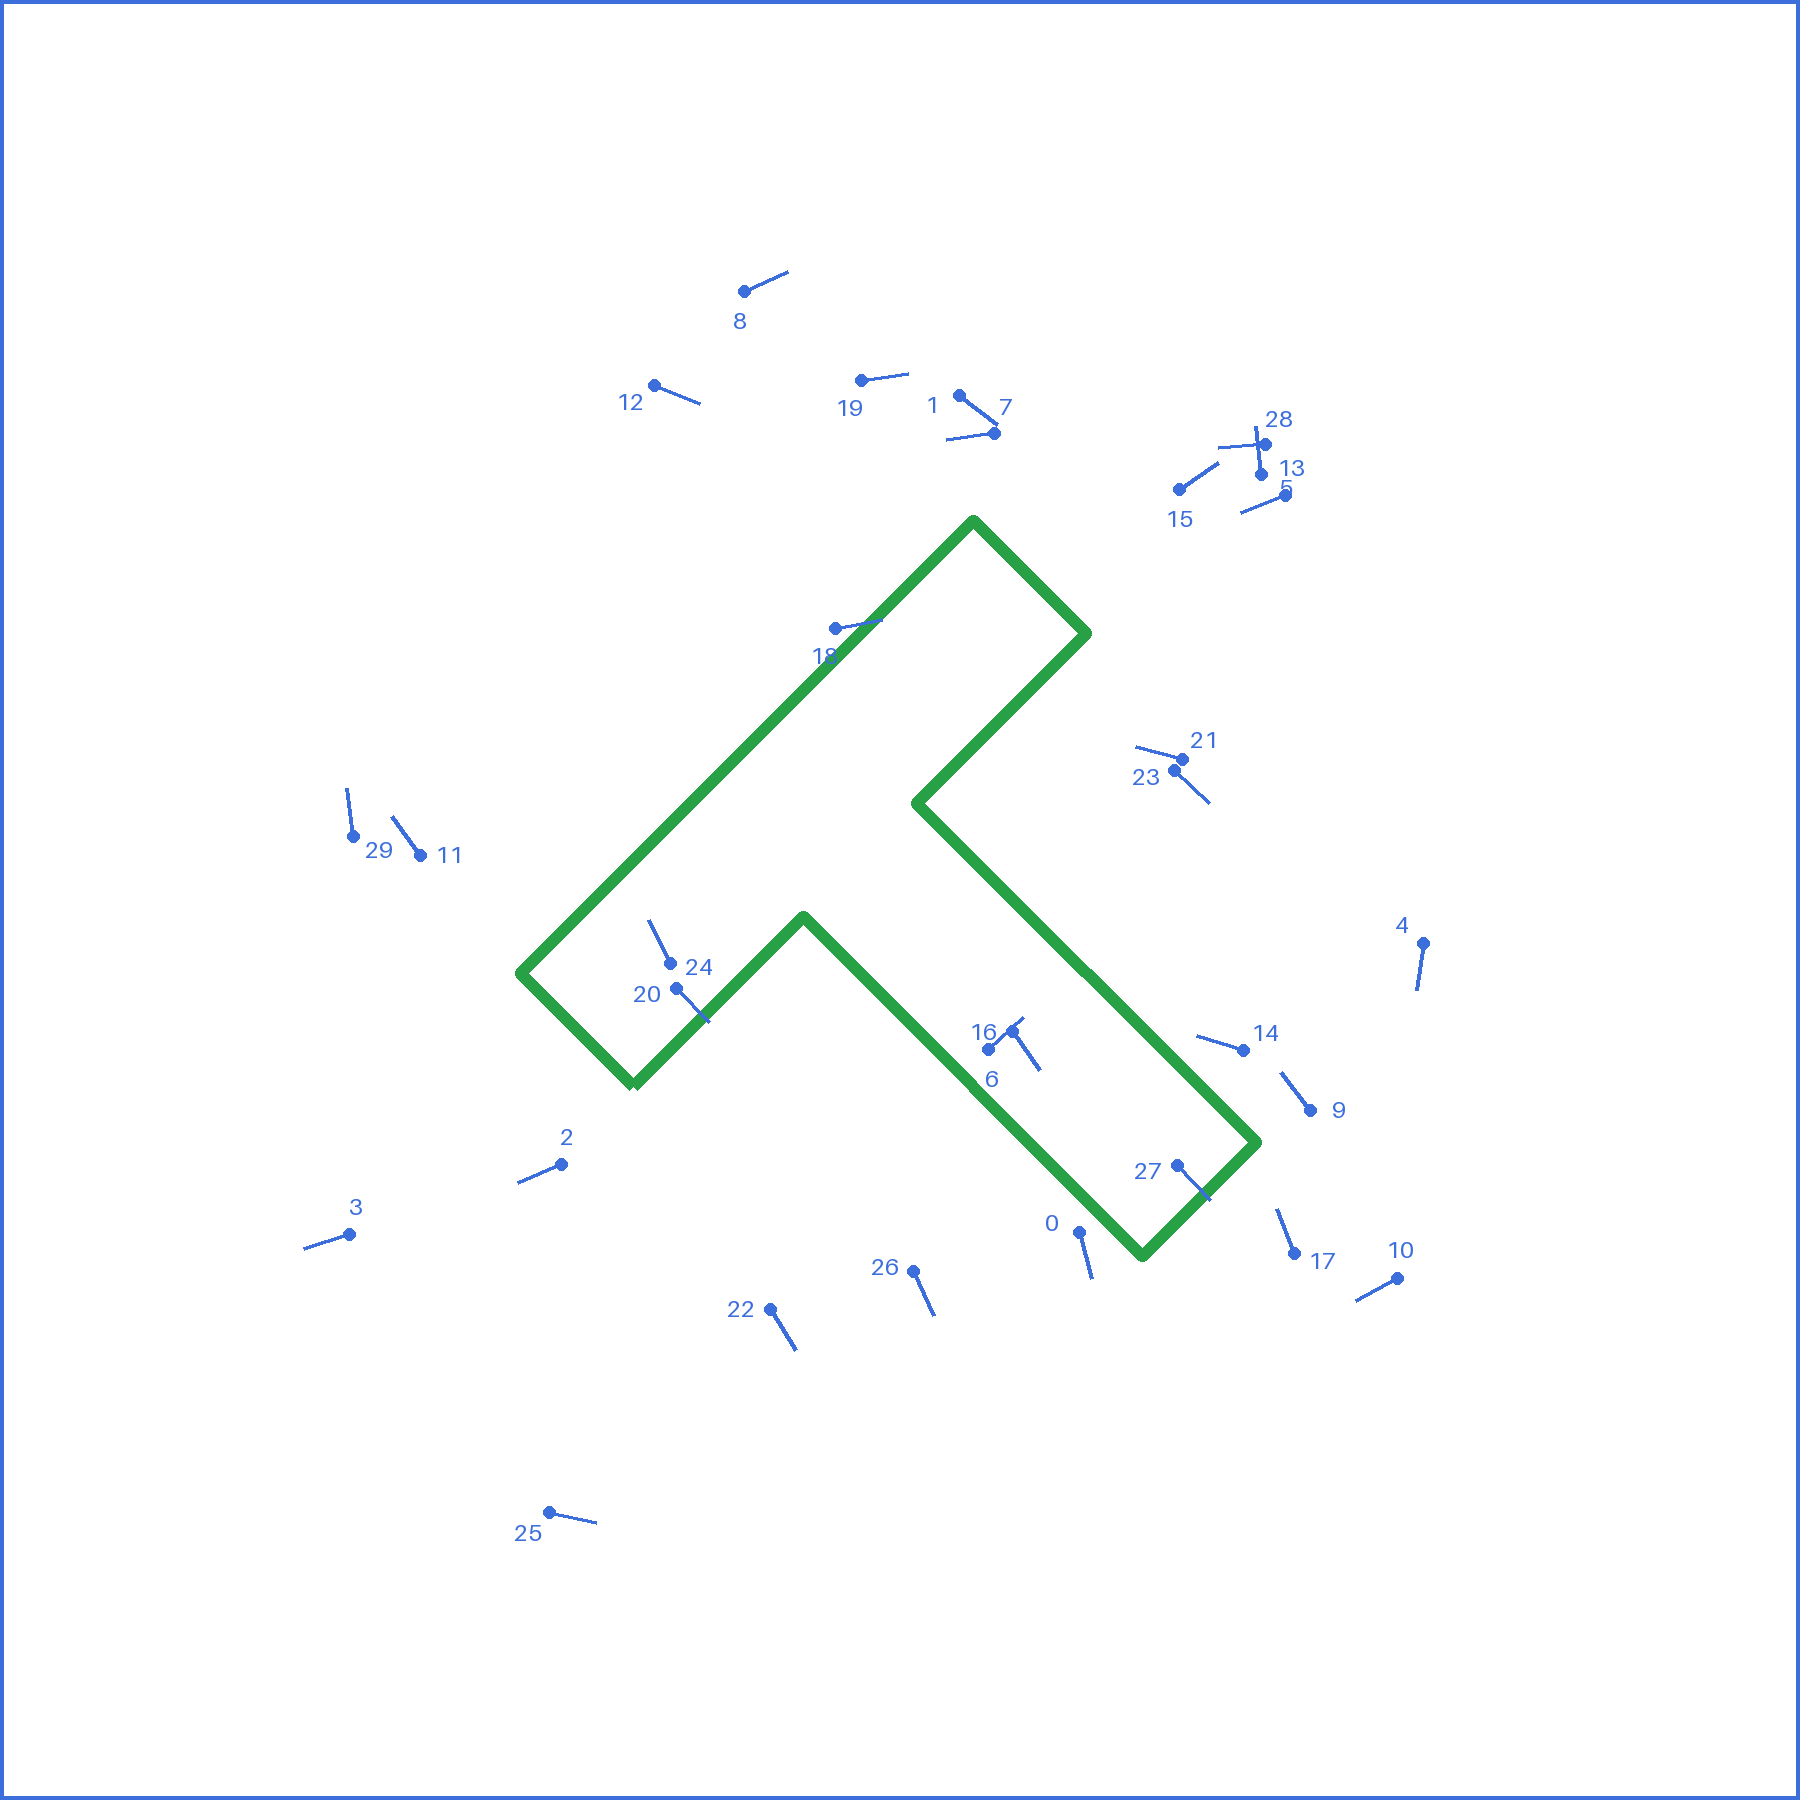
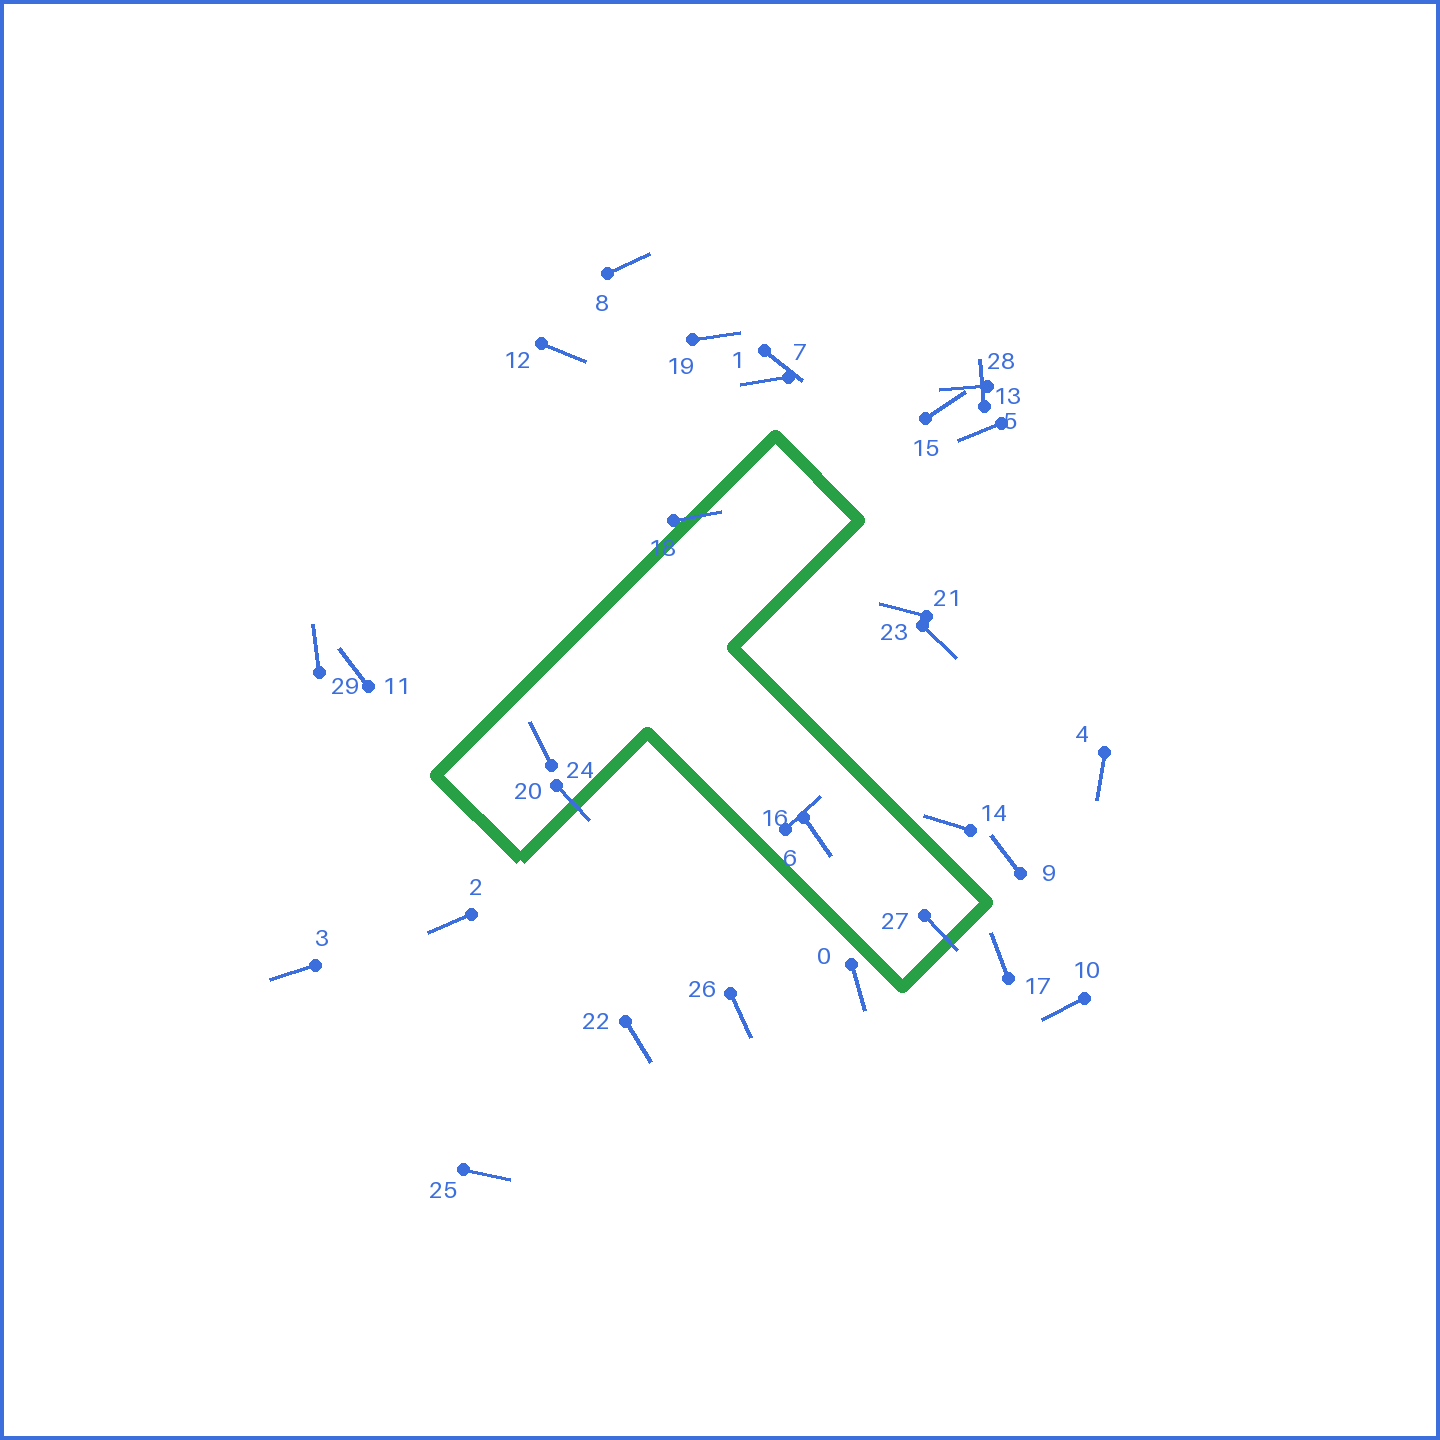
Limit Area and T size configured.

diff --git a/movensys_imitation/tasks/pusht/geometry.py b/movensys_imitation/tasks/pusht/geometry.py
@@ -19,18 +19,29 @@ import math
 
 import numpy as np
 
-UNIT = 0.040
-"""Metres per gym-pusht unit (plan Section 5: 40 mm so the T segments and pushes reliably)."""
+UNIT = 0.030
+"""Metres per gym-pusht unit (plan Section 5, v2.4).
+
+40 mm from v2.0 to v2.3; 30 mm since 2026-10-24 so the T keeps a workable ratio to the push area,
+which the CR3A's reach caps at about 0.36 m (see :data:`SHEET_SIZE`). A 30 mm stem is still about
+27 px wide in the 1280 x 720 overhead image from 0.7 m.
+"""
 
 BAR = (4 * UNIT, 1 * UNIT)  # (length along x, width along y)
 STEM = (1 * UNIT, 3 * UNIT)
 BLOCK_HEIGHT = 0.030
-BLOCK_MASS = 0.250
+BLOCK_MASS = 0.150  # printed at 30 mm per unit: 150 to 250 g depending on infill
 
-SHEET_SIZE = 0.45
-"""Side of the square target sheet, equal to the push area (plan Section 5)."""
-INNER_SIZE = 0.30
-"""Side of the square in which start positions are sampled."""
+SHEET_SIZE = 0.36
+"""Side of the square target sheet, equal to the push area (plan Section 5, v2.4).
+
+Reduced from 0.45 m on 2026-10-24: with the tool vertical at push height the CR3A reaches the
+table without a Servo singularity slow-down only 0.28 to 0.48 m from its base axis, and at all
+only 0.18 to 0.57 m, so a 0.45 m square does not fit at any centre. At 0.36 m the near and far
+edges lie in Servo's slow-down zone (condition number 17 to 30) but stay reachable.
+"""
+INNER_SIZE = 0.22
+"""Side of the square in which start positions are sampled (about 0.6 x the sheet)."""
 
 GOAL_YAW = math.pi / 4
 """Goal orientation, as in gym-pusht (goal pose (256, 256, pi/4))."""

diff --git a/movensys_imitation/tests/test_pusht_geometry.py b/movensys_imitation/tests/test_pusht_geometry.py
@@ -13,14 +13,15 @@ def _shoelace(poly):
 
 def test_block_polygon_area_and_extent():
     poly = g.block_polygon_local()
-    assert _shoelace(poly) == pytest.approx(0.16 * 0.04 + 0.04 * 0.12)
-    assert poly[:, 0].min() == pytest.approx(-0.08) and poly[:, 0].max() == pytest.approx(0.08)
-    assert poly[:, 1].min() == pytest.approx(-0.12) and poly[:, 1].max() == pytest.approx(0.04)
+    u = g.UNIT
+    assert _shoelace(poly) == pytest.approx(4 * u * u + 3 * u * u)
+    assert poly[:, 0].min() == pytest.approx(-2 * u) and poly[:, 0].max() == pytest.approx(2 * u)
+    assert poly[:, 1].min() == pytest.approx(-3 * u) and poly[:, 1].max() == pytest.approx(u)
 
 
 def test_centroid_is_on_the_stem_side():
     c = g.block_centroid_local()
-    assert c[0] == 0.0 and -0.12 < c[1] < 0.0
+    assert c[0] == 0.0 and -3 * g.UNIT < c[1] < 0.0
 
 
 def test_goal_centroid_at_sheet_centre():

diff --git a/sim/isaacsim/make_usd_assets.py b/sim/isaacsim/make_usd_assets.py
@@ -8,7 +8,7 @@ Python, which has ``pxr`` once its app is up:
 
 Writes into ``sim/isaacsim/assets/`` (ASCII-encoded ``.usd`` so diffs stay readable):
 
-* ``t_block.usd``      rigid T: gym-pusht proportions at 40 mm per unit, 30 mm tall, 0.25 kg,
+* ``t_block.usd``      rigid T: gym-pusht proportions at 30 mm per unit, 30 mm tall, 0.15 kg,
                        dark blue (20, 40, 110), friction 0.40/0.35. Default prim ``/t_block``.
 * ``pusher_tip.usd``   20 mm cylinder, collision only (it rides on the link it is parented to).
                        Default prim ``/pusher_tip``.

diff --git a/sim/isaacsim/make_assets.py b/sim/isaacsim/make_assets.py
@@ -6,7 +6,7 @@ Run from the project venv (needs Pillow and numpy):
 
 Writes into ``sim/isaacsim/assets/``:
 
-* ``target_sheet.png``   the 0.45 x 0.45 m sheet: goal T outline and 30 start marks, no markers
+* ``target_sheet.png``   the 0.36 x 0.36 m sheet: goal T outline and 30 start marks, no markers
 * ``pusht_sheet.json``   every number the artwork was made from, for ``task.yaml`` and the scorer
 
 The sheet carries no fiducials (plan v2.1): scoring segments the dark blue T in the overhead image,

diff --git a/plan/plan.md b/plan/plan.md
@@ -4,9 +4,13 @@ Compare ACT, Diffusion Policy and Flow Matching on PushT with the Dobot CR3A. De
 
 | | |
 |---|---|
-| Version | 2.2, 2026-10-17. v2.1 (2026-10-16) removed all markers. v2.0 (2026-10-13) merged `movensys_imitation_plan.md` (v1.1) and `Simplified_plan.md`; both are archived under `plan/archive/`. |
+| Version | 2.4, 2026-10-24. v2.3 (same day) cut the push area to fit the arm's reach. v2.2 (2026-10-17) made the T dark blue. v2.1 (2026-10-16) removed all markers. v2.0 (2026-10-13) merged `movensys_imitation_plan.md` (v1.1) and `Simplified_plan.md`; both are archived under `plan/archive/`. |
 | Host | Ubuntu 24.04, ROS 2 Jazzy, Python 3.12, RTX 5090, Isaac Sim 5.1 (`~/isaac-sim`), WMX3 SDK (`/opt/wmx3`) |
 | Start | 2026-10-13, 10 weeks, one engineer (7 to 8 weeks with a controls engineer **C** and an ML engineer **M** in parallel) |
+
+**Changes in v2.4 (2026-10-24):** the T goes from 40 mm to **30 mm per unit** (bar 120 x 30 mm, stem 30 x 90 mm, height 30 mm, 150 to 250 g) and the push area from the v2.3 0.30 m to **0.36 x 0.36 m**, start square 0.22 m, centre unchanged. At 0.30 m with the 40 mm T the arena was only 7.5 T units across and the start poses overlapped the goal; 0.36 m is the largest square the reach map allows, with the near and far edges inside Servo's slow-down zone (condition number 17 to 30, speed scaled down, no halt). Together the two changes give 12 T units across, better than the 11 of v2.0. This reverts the v2.0 choice of 40 mm, which was made for mask quality: at 0.7 m and 1280 x 720 the 30 mm stem is still about 27 px wide, and the 20 mm tip against a 30 mm stem is closer to gym-pusht's proportions. The real block has not been printed, so the change costs nothing on hardware. Artwork, sheet spec, standalone T asset, scene and scene spec regenerated.
+
+**Changes in v2.3 (2026-10-24):** the push area shrinks from 0.45 x 0.45 m to **0.30 x 0.30 m** and the start square from 0.30 to 0.18 m; the centre stays at world_manipulator (-0.03, -0.08). Reason: teleop could not reach the sheet edge nearest the robot. An IK sweep of the CR3A URDF at push height with the tool vertical shows the arm clear of Servo's singularity slow-down only 0.28 to 0.48 m from its base axis, a 0.20 m deep band; the 0.45 m sheet had its near edge at 0.13 m (unreachable) and its far edge at 0.58 m (Servo hard stop), so no centre could fix it. A 0.30 m square at the current centre sits almost entirely in the clean band. The T stays at 40 mm per unit (7.5 units across the area, versus 11 before and about 17 in gym-pusht; the T is larger in the 96 x 96 policy image, which helps segmentation and the policy). Sheet artwork, sheet spec, scene and scene spec regenerated. The P2.1 teleop reach check remains the final word.
 
 **Changes in v2.2 (2026-10-17):** the T is dark blue, RGB (20, 40, 110), in sim and on the real block, instead of gym-pusht's grey. The sim scene, the standalone T asset and the sheet spec were regenerated with it. The start marks stay a lighter blue (60, 110, 220) and the goal outline green, so the P2.3 colour threshold separates the T from the marks by brightness as well as hue. Everything else in v2.1 stands.
 
@@ -117,7 +121,7 @@ Goal: the whole collection and inference pipeline on the simulated CR3A with gro
 
 | ID | Task | Owner | Done when | Status |
 |---|---|---|---|---|
-| P2.1 | Scene `9a_pusht_simulation.usd` from `3a`: T block, target sheet, pusher tip under `Link6`, overhead camera from `7b` at 1280 x 720 and 30 Hz on `/image_top/rgb`, T pose publisher `/pusht/t_block/pose`, T teleport subscriber `/pusht/t_block/pose_cmd`. Reach check over the whole push area at push height with the tool down; fix the area centre. | C | Teleop reaches all four corners without Servo singularity slow-down | In progress: scene generated 2026-10-16 by `sim/isaacsim/build_scene.py` (sheet, T, tip, camera, pose and teleport graphs), regenerated the same day without any markers (v2.1: plain T, green outline and blue start marks on the sheet; T recoloured dark blue 2026-10-17, v2.2); `sim/isaacsim/smoke_check.py` passes 13/13 headless (topics at rate, 1280 x 720 at 30 Hz, teleport exact, T at rest). Push-area centre provisional at world_manipulator (-0.03, -0.08); reach check with teleop still to do |
+| P2.1 | Scene `9a_pusht_simulation.usd` from `3a`: T block, target sheet, pusher tip under `Link6`, overhead camera from `7b` at 1280 x 720 and 30 Hz on `/image_top/rgb`, T pose publisher `/pusht/t_block/pose`, T teleport subscriber `/pusht/t_block/pose_cmd`. Reach check over the whole push area at push height with the tool down; fix the area centre. | C | Teleop reaches all four corners without Servo singularity slow-down | In progress: scene generated 2026-10-16 by `sim/isaacsim/build_scene.py` (sheet, T, tip, camera, pose and teleport graphs), regenerated the same day without any markers (v2.1: plain T, green outline and blue start marks on the sheet; T recoloured dark blue 2026-10-17, v2.2); `sim/isaacsim/smoke_check.py` passes 13/13 headless (topics at rate, 1280 x 720 at 30 Hz, teleport exact, T at rest). Push-area centre at world_manipulator (-0.03, -0.08). Teleop reach check 2026-10-24: the edge nearest the robot was unreachable; IK sweep showed the 0.45 m area cannot fit the CR3A's clean reach band at any centre, so the area was cut to 0.30 m (v2.3), then set to 0.36 m with a 30 mm T (v2.4) and the scene rebuilt; teleop check of the four new corners still to do |
 | P2.2 | `planar_guard` with tests (z and orientation lock, workspace clamp, step limit, EEF-distance limit, watchdog, Servo POSE switch, source arbitration by mode) and `task.yaml`, `guard.yaml`. | C | Tests pass; teleop runs through the guard | |
 | P2.3 | `tasks/pusht/scoring.py` with two backends: geometric (shapely coverage from a block pose; sim ground truth) and pixel (T mask from the overhead crop by colour threshold plus morphological opening, coverage and IoU against a stored goal mask). `setup_camera.py`: with the T on the goal (sim: teleported to `goal_pose()`; real: placed on the printed outline by hand) grab one frame, store the crop rectangle, the goal mask, the T's pixel area and the frame itself as the reference. `pusht_scorer` runs both backends in sim and logs their difference; tests against hand-computed cases. | M | Tests pass; pixel and geometric coverage agree within 0.02 on 20 sim episodes, including end states near the threshold | |
 | P2.4 | `episode_recorder`, `episode_manager`, `collect.launch.py mode:=sim`. Pilot 10 episodes; check with `lerobot-dataset-viz`; replay check (recorded actions through the guard reproduce the final T pose); reset repeatability check (10 teleports, T velocity zero after each). | M + C | Pilot dataset passes all three checks | |
@@ -233,10 +237,10 @@ Dataset: episodes collected ___, kept ___, lighting conditions ___, operator ___
 |---|---|
 | Robot | Dobot CR3A, `joint1..joint6`, EEF `Link6`, planning frame `world_manipulator` |
 | Pusher | Printed 20 mm cylinder tip held by the closed gripper; tool axis vertical, fixed yaw, tip bottom 10 mm above the table; only x, y move |
-| Push area | 0.45 x 0.45 m square in front of the robot, centre fixed after the P2.1 reach check |
-| T block | gym-pusht proportions at **40 mm per unit**: bar 160 x 40 mm, stem 40 x 120 mm, height 30 mm, 200 to 300 g; matte dark blue, RGB (20, 40, 110) (v2.2; gym-pusht's T is grey), **no marker**, same look in sim and real |
+| Push area | 0.36 x 0.36 m square in front of the robot (v2.4; 0.45 m did not fit the arm's reach), centre at world_manipulator (-0.03, -0.08); the near and far edges are in Servo's slow-down zone |
+| T block | gym-pusht proportions at **30 mm per unit** (v2.4): bar 120 x 30 mm, stem 30 x 90 mm, height 30 mm, 150 to 250 g; matte dark blue, RGB (20, 40, 110) (v2.2; gym-pusht's T is grey), **no marker**, same look in sim and real |
 | Target | T outline printed on a white laminated sheet with 30 numbered start marks with orientation; no markers. Outline and marks are thin and coloured so the T mask threshold ignores them |
-| Start states | T position uniform in the inner 0.30 x 0.30 m, yaw uniform; EEF home at one corner. Seeds 0 to 49 evaluate, 1000+ collect; 30 marks on the real sheet |
+| Start states | T position uniform in the inner 0.22 x 0.22 m, yaw uniform; EEF home at one corner. Seeds 0 to 49 evaluate, 1000+ collect; 30 marks on the real sheet |
 | Rates | policy 10 Hz, guard and teleop 50 Hz, Servo 40 Hz, WMX3 1 kHz |
 | Episode | 300 policy steps (30 s) |
 

diff --git a/sim/isaacsim/README.md b/sim/isaacsim/README.md
@@ -56,13 +56,15 @@ default `-0.03 -0.08`, to be fixed after the reach check), `--camera-height` (0.
 * **Sheet frame** = prim `/World/pusht`: origin at the push-area centre on the table top, axes
   parallel to `world_manipulator` (the robot base is on the +y side). Everything PushT-specific is
   expressed here: the block pose topic, the teleport topic, the goal pose and the start marks.
-* **Push area**: 0.45 x 0.45 m. With the default centre the sheet spans `world_manipulator`
-  x -0.255..0.195, y -0.305..0.145; the table edge is at y = -0.35 and the base at y = 0.275.
+* **Push area**: 0.36 x 0.36 m (plan v2.4; 0.45 m until 2026-10-24, which the arm could not reach
+  at either edge). With the default centre the sheet spans `world_manipulator` x -0.21..0.15,
+  y -0.26..0.10; the table edge is at y = -0.35 and the base at y = 0.275. The near and far edges
+  are inside Servo's singularity slow-down zone, so teleop is slower there.
 * **Table top**: z = 0.0431 m in `world_manipulator` (measured from the 3a collision mesh).
 * **Pusher tip**: 20 mm cylinder on the `Link6` +z axis from 0.14 to 0.22 m. The tip bottom is
   0.22 m from the `Link6` origin, so the guard's z setpoint for a tip 10 mm above the table is
   **0.2731 m** (in `scene_9a.json`).
-* **T block**: gym-pusht proportions at 40 mm per unit, 30 mm tall, 0.25 kg, friction 0.40/0.35,
+* **T block**: gym-pusht proportions at 30 mm per unit (v2.4), 30 mm tall, 0.15 kg, friction 0.40/0.35,
   dark blue (20, 40, 110). Its pose origin is the bar-stem junction; yaw 0 puts
   the bar along +x on the +y side. It starts at start-state seed 0.
 * **Camera**: a plain `Camera` prim (`/World/camera_top_link/camera_top`) with the D455 colour

diff --git a/doc/teleop_tunning_setup.md b/doc/teleop_tunning_setup.md
@@ -1,13 +1,11 @@
 ## Start Isaac Simulation
 
 
-
 ## Isaac Sim Bridge
 mros ros2 launch movensys_manipulator_moveit_config sim_bridge.launch.py simulator:=isaacsim use_sim_time:=true
 
 ## Start Moveit2
 mros ros2 launch movensys_manipulator_moveit_config moveit.launch.py use_sim_time:=true
-
 
 ## Start Moveit Servo
 mros ros2 launch movensys_manipulator_moveit_config quest_servo_teleop.launch.py use_sim_time:=true
